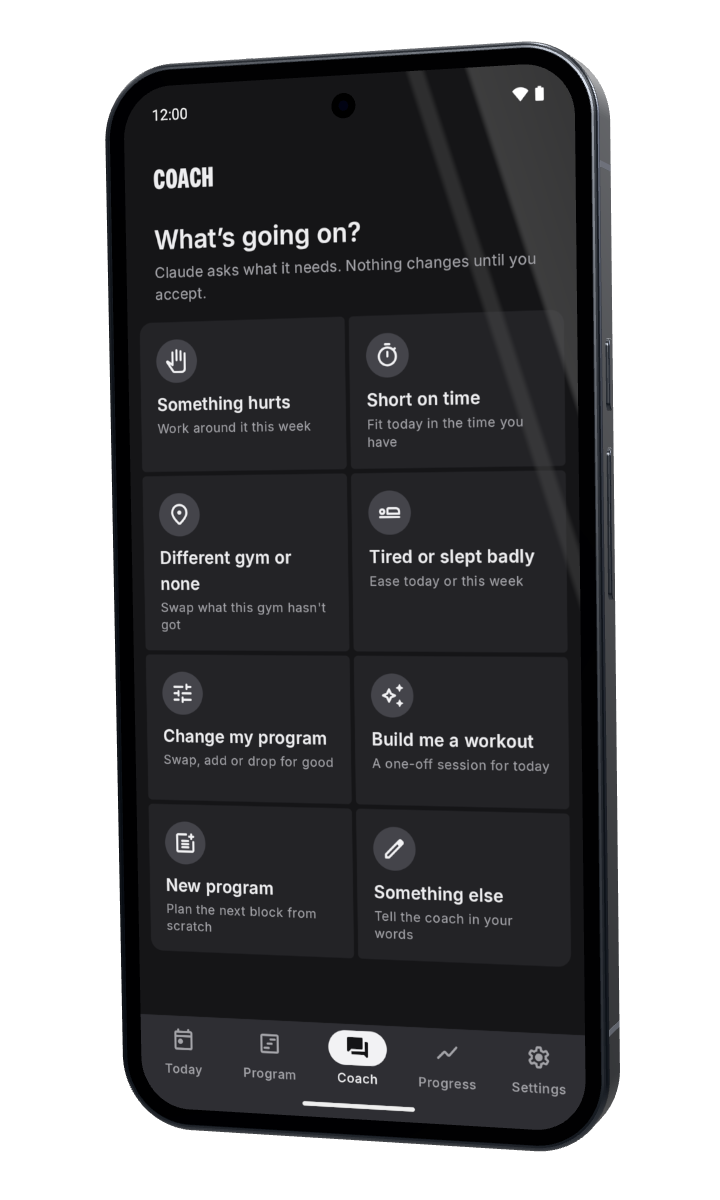
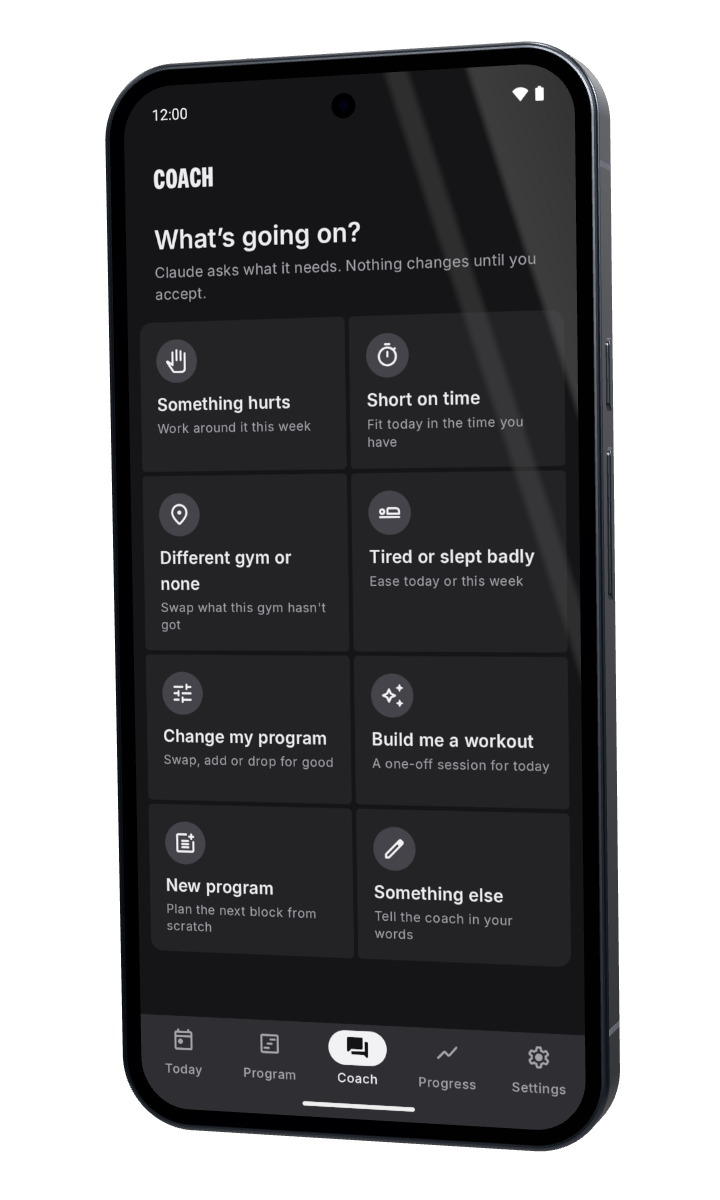
fix: mirror a window on the phone's glass at every pose (#588)
The glass now mirrors a row of windows, so a pane lies over a corner of
the screen both as the page opens and once the phone has turned, and each
pane fades out to nothing in place of leaving the corner lit.

Changed region(s): [[0.55, 0.0617, 0.7028, 0.2775], [0.7639, 0.4625, 0.825, 0.555], [0.7639, 0.4317, 0.7944, 0.4625]]

diff --git a/src/phone/phone.js b/src/phone/phone.js
@@ -102,9 +102,9 @@ const SCREEN_VERTEX = `
 
 // The screen lights itself: no lamp or tone mapping changes the app's colours, and its picture is
 // read a little sharper than the size it is drawn at asks for, so the text on it stays crisp. The
-// glass over it is glossy: it mirrors a window up and to the right as a pane of light with hard
-// edges and a thin line beside it, which cross the screen as the phone turns and at rest lie
-// over its upper right corner. Everywhere else the screen's colours are untouched. A picture
+// glass over it is glossy: it mirrors a room's windows, each a pane of light with a hard edge
+// that fades out and a thin line beside it. They cross the screen as the phone turns, and one
+// lies over its upper right corner at rest. Everywhere else the screen's colours are untouched. A picture
 // comes in as linear colour, a clip's frame as it was encoded, sRGB, which is taken back to
 // linear here.
 const SCREEN_FRAGMENT = `
@@ -126,16 +126,19 @@ const SCREEN_FRAGMENT = `
   }
   void main() {
     vec3 shown = mix(colour(from, fromVideo), colour(to, toVideo), blend);
-    // Where the glass's mirror image of this spot lies, on a wall a unit behind the camera.
+    // Which way the glass's mirror image of this spot lies, as an angle to the side, leaning
+    // with its height. The room has a window every GLOSS_APART of that angle, so one is on the
+    // screen both as the page opens and once the phone has turned into place.
     vec3 mirrored = reflect(normalize(vPlace), normalize(vNormal));
-    vec2 wall = mirrored.xy / max(mirrored.z, 0.001);
-    float across = wall.x + 0.35 * wall.y;
-    float window = pane(GLOSS_FROM, GLOSS_FROM + 2.0, across) * mix(0.04, 0.014, clamp((across - GLOSS_FROM) / 0.12, 0.0, 1.0));
-    float line = pane(GLOSS_FROM - 0.03, GLOSS_FROM - 0.022, across) * 0.02;
+    float across = mod(atan(mirrored.x, mirrored.z) + 0.3 * mirrored.y - GLOSS_FROM, GLOSS_APART);
+    float window = pane(0.0, 0.1, across) * mix(0.04, 0.0, across / 0.1);
+    float line = pane(GLOSS_APART - 0.03, GLOSS_APART - 0.022, across) * 0.02;
     gl_FragColor = vec4(shown + window + line, 1.0);
     #include <colorspace_fragment>
   }
-`.replace(/GLOSS_FROM/g, "(-0.585)");
+`
+  .replace(/GLOSS_FROM/g, "(-0.53)")
+  .replace(/GLOSS_APART/g, "0.44");
 
 /** A camera lens seen from above, painted: the glass's rings, its coating and the light on it. */
 function lensFace(periscope) {
